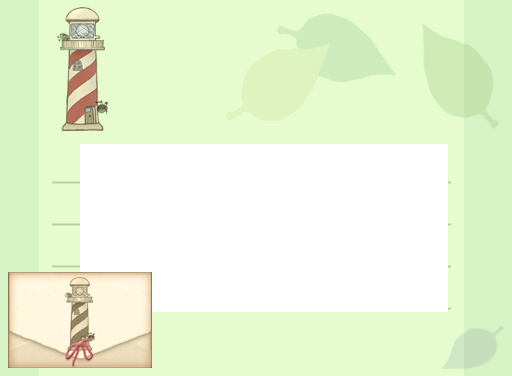
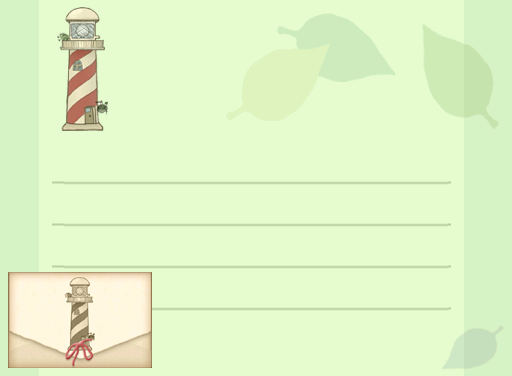
Fix letterhead tile sizing and gallery cropping

diff --git a/scripts/build-letterheads.js b/scripts/build-letterheads.js
@@ -37,6 +37,13 @@ const TILES = {
   d: [0, 144], e: [64, 144], f: [448, 144],
   g: [0, 312], h: [64, 312], i: [448, 312]
 };
+// Slot size of each tile. Some letterheads store stretched tiles at a smaller
+// size (e.g. 16x144) which the Message Board scales up, so resize to the slot.
+const SIZES = {
+  a: [64, 144], b: [384, 144], c: [64, 144],
+  d: [64, 168], e: [384, 168], f: [64, 168],
+  g: [64, 64], h: [384, 64], i: [64, 64]
+};
 
 // One-time letters are left out: all of "Calling" except the image-embedding
 // one (CALLING_KEEP), and RiiConnect24's Valentine's Day letters.
@@ -74,7 +81,11 @@ async function build(arcPath, group, name) {
     const layers = [];
     for (const [k, [left, top]] of Object.entries(TILES)) {
       const f = path.join(lettersDir, `my_Letter_${k}.tpl.png`);
-      if (fs.existsSync(f)) layers.push({ input: f, left, top });
+      if (fs.existsSync(f)) {
+        const [w, h] = SIZES[k];
+        const input = await sharp(f).resize(w, h, { fit: 'fill', kernel: 'lanczos3' }).png().toBuffer();
+        layers.push({ input, left, top });
+      }
     }
     if (layers.length < 9) throw new Error(`only ${layers.length}/9 letter tiles`);
 

diff --git a/public/css/main.css b/public/css/main.css
@@ -786,5 +786,7 @@ input[type='color'] {
 .letterhead-gallery img {
   width: 100%;
   height: auto;
+  aspect-ratio: auto;
+  object-fit: contain;
   display: block;
 }
